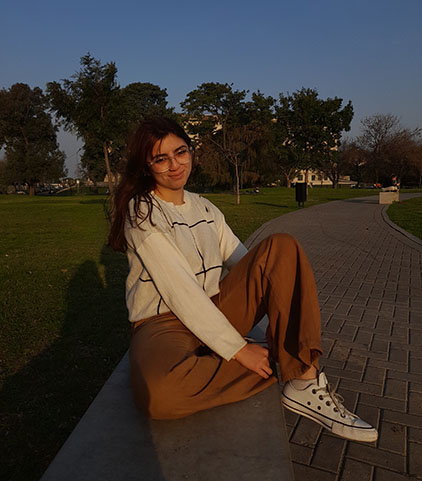
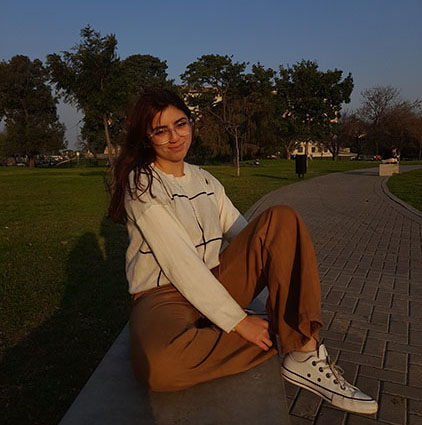
Nuevos cambios

diff --git a/index.html b/index.html
@@ -14,7 +14,7 @@
 </header>
 <main> 
 	<div class="img-perfil">
-	<img src="img/Foto1.jpg" width="422px" height="481px" alt="Foto de Yamila Medina Suazo"/>
+	<img src="img/foto1.jpg" width="422" height="425" alt="Foto de Yamila Medina Suazo"/>
 	</div>
   <div class= "columna1">
     <section class= "section1">
